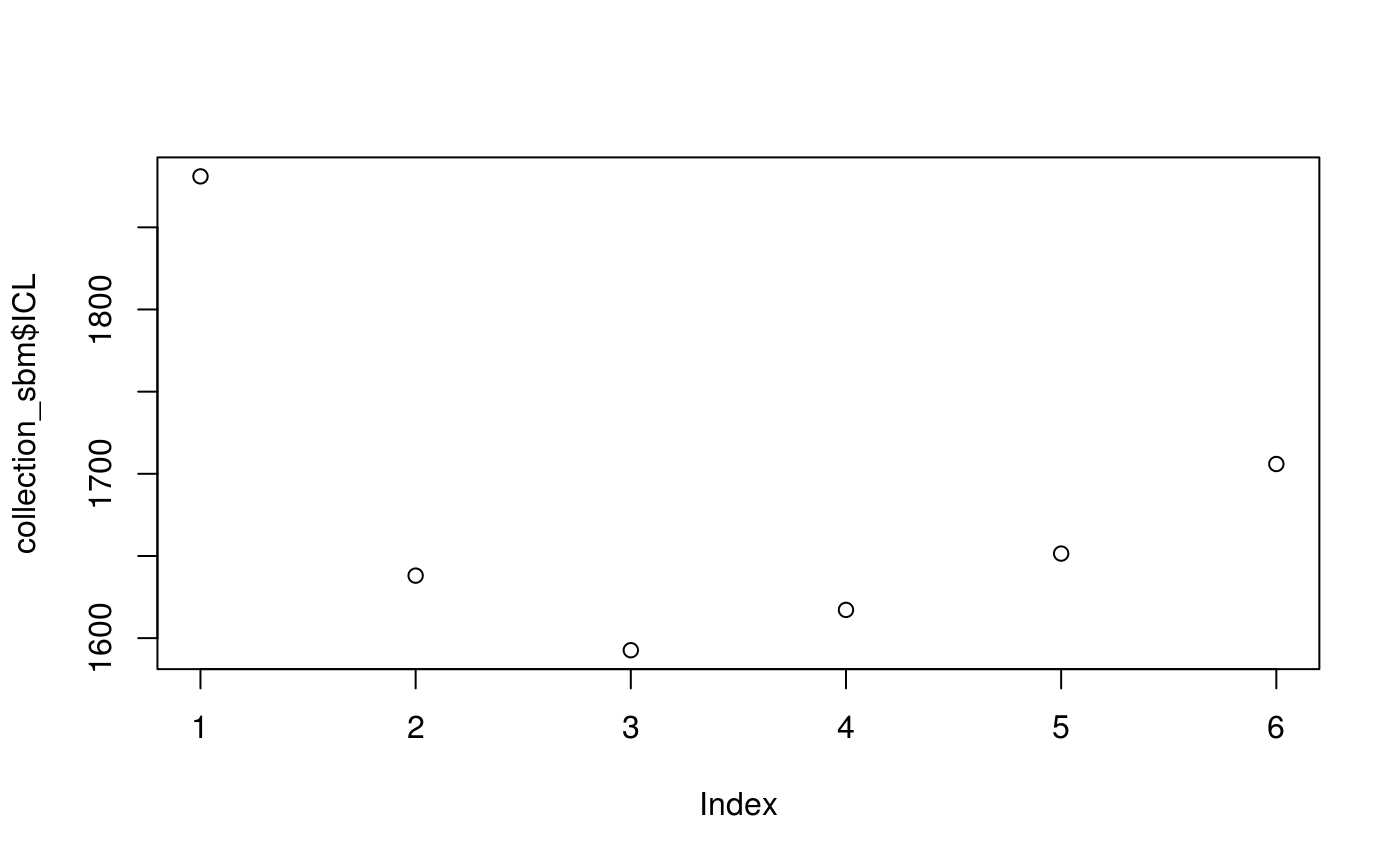
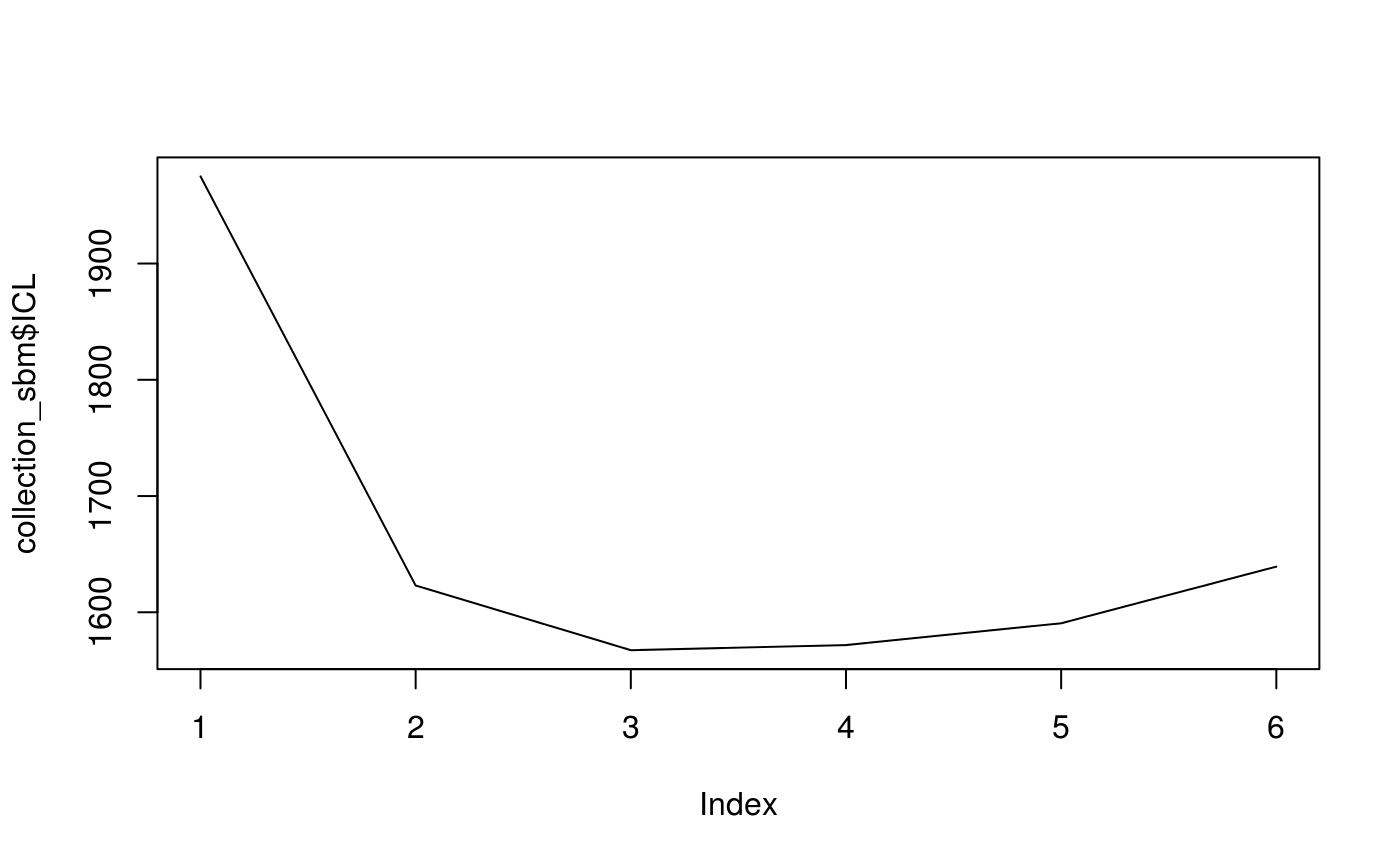
Deploy jchiquet/missSBM to github.com/jchiquet/missSBM.git:gh-pages

diff --git a/articles/introdution-to-misssbm.html b/articles/introdution-to-misssbm.html
@@ -74,7 +74,7 @@
       <h1>Introduction to missSBM</h1>
                         <h4 class="author">missSBM team</h4>
             
-            <h4 class="date">2019-03-22</h4>
+            <h4 class="date">2019-03-24</h4>
       
       <small class="dont-index">Source: <a href="https://github.com/jchiquet/missSBM/blob/master/vignettes/introdution-to-misssbm.Rmd"><code>vignettes/introdution-to-misssbm.Rmd</code></a></small>
       <div class="hidden name"><code>introdution-to-misssbm.Rmd</code></div>
@@ -95,7 +95,8 @@
 <pre><code>## The following object is masked from 'package:base':
 ## 
 ##     union</code></pre>
-<div class="sourceCode" id="cb5"><pre class="sourceCode r"><code class="sourceCode r"><a class="sourceLine" id="cb5-1" data-line-number="1"><span class="kw"><a href="https://www.rdocumentation.org/packages/base/topics/library">library</a></span>(missSBM)</a></code></pre></div>
+<div class="sourceCode" id="cb5"><pre class="sourceCode r"><code class="sourceCode r"><a class="sourceLine" id="cb5-1" data-line-number="1"><span class="kw"><a href="https://www.rdocumentation.org/packages/base/topics/library">library</a></span>(magrittr)</a>
+<a class="sourceLine" id="cb5-2" data-line-number="2"><span class="kw"><a href="https://www.rdocumentation.org/packages/base/topics/library">library</a></span>(missSBM)</a></code></pre></div>
 <pre><code>## 
 ## Attaching package: 'missSBM'</code></pre>
 <pre><code>## The following objects are masked from 'package:stats':
@@ -110,7 +111,7 @@
 <a href="#war-network" class="anchor"></a>War network</h2>
 <p>The <code>war_graphs</code> dataset comes with the <code>missSBM</code> package:</p>
 <div class="sourceCode" id="cb9"><pre class="sourceCode r"><code class="sourceCode r"><a class="sourceLine" id="cb9-1" data-line-number="1"><span class="kw"><a href="https://www.rdocumentation.org/packages/utils/topics/data">data</a></span>(<span class="st">"war_graphs"</span>)</a></code></pre></div>
-<p>This dataset contains a list of two networks where the nodes are countries and an edge in network <code>beligerent</code> means that the two countries have been at least once at war between years 1816 to 2007 while an edge in network <code>alliance</code> means that the two countries have had a formal alliance between years 1816 to 2012. The network <code>beligenrent</code> have less nodes since countries which have not been at war are not considered. These two networs were extracted from <strong><a href="http://www.correlatesofwar.org/" class="uri">http://www.correlatesofwar.org/</a></strong> (version 4.0 for war data see <em>Sarkees, Meredith Reid and Frank Wayman (2010). Resort to War: 1816 - 2007. Washington DC: CQ Press.</em>, version 4.1 for formal alliance see <em>Gibler, Douglas M. 2009. International military alliances, 1648-2008. CQ Press.</em>).</p>
+<p>This dataset contains a list of two networks where the nodes are countries and an edge in network <code>beligerent</code> means that the two countries have been at least once at war between years 1816 to 2007 while an edge in network <code>alliance</code> means that the two countries have had a formal alliance between years 1816 to 2012. The network <code>beligerent</code> have less nodes since countries which have not been at war are not considered. These two networs were extracted from <strong><a href="http://www.correlatesofwar.org/" class="uri">http://www.correlatesofwar.org/</a></strong> (version 4.0 for war data see <em>Sarkees, Meredith Reid and Frank Wayman (2010). Resort to War: 1816 - 2007. Washington DC: CQ Press.</em>, version 4.1 for formal alliance see <em>Gibler, Douglas M. 2009. International military alliances, 1648-2008. CQ Press.</em>).</p>
 <div class="sourceCode" id="cb10"><pre class="sourceCode r"><code class="sourceCode r"><a class="sourceLine" id="cb10-1" data-line-number="1"><span class="kw"><a href="https://www.rdocumentation.org/packages/graphics/topics/plot">plot</a></span>(war_graphs<span class="op">$</span>alliance   , <span class="dt">main =</span> <span class="st">"Alliance"</span>)</a></code></pre></div>
 <p><img src="introdution-to-misssbm_files/figure-html/plot-1.png" width="1920"></p>
 <div class="sourceCode" id="cb11"><pre class="sourceCode r"><code class="sourceCode r"><a class="sourceLine" id="cb11-1" data-line-number="1"><span class="kw"><a href="https://www.rdocumentation.org/packages/graphics/topics/plot">plot</a></span>(war_graphs<span class="op">$</span>beligerent , <span class="dt">main =</span> <span class="st">"Beligerent"</span>)</a></code></pre></div>
@@ -125,32 +126,7 @@
 <p><img src="introdution-to-misssbm_files/figure-html/sampling-1.png" width="700"></p>
 <div class="sourceCode" id="cb13"><pre class="sourceCode r"><code class="sourceCode r"><a class="sourceLine" id="cb13-1" data-line-number="1">vBlocks &lt;-<span class="st"> </span><span class="dv">1</span><span class="op">:</span><span class="dv">6</span></a>
 <a class="sourceLine" id="cb13-2" data-line-number="2">collection_sbm &lt;-<span class="st"> </span>sampledNet_war<span class="op">$</span>adjMatrix <span class="op">%&gt;%</span><span class="st"> </span></a>
-<a class="sourceLine" id="cb13-3" data-line-number="3"><span class="st">  </span>missSBM<span class="op">::</span><span class="kw"><a href="https://www.rdocumentation.org/packages/missSBM/topics/estimate">estimate</a></span>(<span class="dt">vBlocks =</span> vBlocks, <span class="dt">sampling =</span> <span class="st">"node"</span>, <span class="dt">clusterInit =</span> <span class="st">"spectral"</span>, <span class="dt">cores =</span> <span class="dv">2</span>)</a></code></pre></div>
-<pre><code>## 
-## 
-##  Adjusting Variational EM for Stochastic Block Model
-## 
-##  Imputation assumes a 'node' network-sampling process</code></pre>
-<div class="sourceCode" id="cb15"><pre class="sourceCode r"><code class="sourceCode r"><a class="sourceLine" id="cb15-1" data-line-number="1"><span class="kw"><a href="https://www.rdocumentation.org/packages/graphics/topics/plot">plot</a></span>(collection_sbm<span class="op">$</span>ICL)</a></code></pre></div>
-<p><img src="introdution-to-misssbm_files/figure-html/plotICL-1.png" width="700"></p>
-<div class="sourceCode" id="cb16"><pre class="sourceCode r"><code class="sourceCode r"><a class="sourceLine" id="cb16-1" data-line-number="1"><span class="kw"><a href="../reference/smooth.html">smooth</a></span>(collection_sbm, <span class="st">"both"</span>, <span class="dt">iterates =</span> <span class="dv">2</span>, <span class="dt">cores =</span> <span class="dv">2</span>)</a></code></pre></div>
-<pre><code>## 
-##  Smoothing ICL
-##    Going forward +++++
-                                                                                                    
-   Going backward +++++   Going forward +++++
-                                                                                                    
-   Going backward +++++</code></pre>
-<div class="sourceCode" id="cb18"><pre class="sourceCode r"><code class="sourceCode r"><a class="sourceLine" id="cb18-1" data-line-number="1"><span class="kw"><a href="https://www.rdocumentation.org/packages/graphics/topics/plot">plot</a></span>(collection_sbm<span class="op">$</span>ICL)</a></code></pre></div>
-<p><img src="introdution-to-misssbm_files/figure-html/smoothed-1.png" width="700"></p>
-<div class="sourceCode" id="cb19"><pre class="sourceCode r"><code class="sourceCode r"><a class="sourceLine" id="cb19-1" data-line-number="1"><span class="kw"><a href="https://www.rdocumentation.org/packages/base/topics/table">table</a></span>(collection_sbm<span class="op">$</span>bestModel<span class="op">$</span>fittedSBM<span class="op">$</span>memberships)</a></code></pre></div>
-<pre><code>## 
-##  1  2  3 
-## 72 10 10</code></pre>
-<p>We compare with clusterings obtained with the fully observed network.</p>
-<div class="sourceCode" id="cb21"><pre class="sourceCode r"><code class="sourceCode r"><a class="sourceLine" id="cb21-1" data-line-number="1">collection_sbm_full &lt;-<span class="st"> </span>war_graphs<span class="op">$</span>beligerent <span class="op">%&gt;%</span><span class="st"> </span></a>
-<a class="sourceLine" id="cb21-2" data-line-number="2"><span class="st">  </span><span class="kw"><a href="https://www.rdocumentation.org/packages/igraph/topics/as_adjacency_matrix">as_adj</a></span>(<span class="dt">sparse =</span> <span class="ot">FALSE</span>) <span class="op">%&gt;%</span><span class="st"> </span></a>
-<a class="sourceLine" id="cb21-3" data-line-number="3"><span class="st">  </span>missSBM<span class="op">::</span><span class="kw"><a href="https://www.rdocumentation.org/packages/missSBM/topics/estimate">estimate</a></span>(<span class="dt">vBlocks =</span> vBlocks, <span class="st">"node"</span>, <span class="dt">clusterInit =</span> <span class="st">"hierarchical"</span>, <span class="dt">cores =</span> <span class="dv">1</span>, <span class="dt">trace =</span> <span class="ot">TRUE</span>)</a></code></pre></div>
+<a class="sourceLine" id="cb13-3" data-line-number="3"><span class="st">  </span>missSBM<span class="op">::</span><span class="kw"><a href="https://www.rdocumentation.org/packages/missSBM/topics/estimate">estimate</a></span>(<span class="dt">vBlocks =</span> vBlocks, <span class="dt">sampling =</span> <span class="st">"node"</span>, <span class="dt">clusterInit =</span> <span class="st">"spectral"</span>)</a></code></pre></div>
 <pre><code>## 
 ## 
 ##  Adjusting Variational EM for Stochastic Block Model
@@ -169,16 +145,99 @@
  Performing VEM inference for model with 4 blocks.
  Performing VEM inference for model with 5 blocks.
  Performing VEM inference for model with 6 blocks.</code></pre>
+<div class="sourceCode" id="cb15"><pre class="sourceCode r"><code class="sourceCode r"><a class="sourceLine" id="cb15-1" data-line-number="1"><span class="kw"><a href="https://www.rdocumentation.org/packages/graphics/topics/plot">plot</a></span>(collection_sbm<span class="op">$</span>ICL, <span class="dt">type =</span> <span class="st">"l"</span>)</a></code></pre></div>
+<p><img src="introdution-to-misssbm_files/figure-html/inferencew-1.png" width="700"></p>
+<div class="sourceCode" id="cb16"><pre class="sourceCode r"><code class="sourceCode r"><a class="sourceLine" id="cb16-1" data-line-number="1"><span class="kw"><a href="../reference/smooth.html">smooth</a></span>(collection_sbm, <span class="st">"both"</span>, <span class="dt">iterates =</span> <span class="dv">2</span>)</a></code></pre></div>
+<pre><code>## 
+##  Smoothing ICL
+##    Going forward +++++
+                                                                                                    
+   Going backward +++++
+                                                                                                    
+   Going forward +++++
+                                                                                                    
+   Going backward +++++
+                                                                                                    </code></pre>
+<div class="sourceCode" id="cb18"><pre class="sourceCode r"><code class="sourceCode r"><a class="sourceLine" id="cb18-1" data-line-number="1"><span class="kw"><a href="https://www.rdocumentation.org/packages/graphics/topics/plot">plot</a></span>(collection_sbm<span class="op">$</span>ICL, <span class="dt">type =</span> <span class="st">"l"</span>)</a></code></pre></div>
+<p><img src="introdution-to-misssbm_files/figure-html/smoothed-1.png" width="700"></p>
+<div class="sourceCode" id="cb19"><pre class="sourceCode r"><code class="sourceCode r"><a class="sourceLine" id="cb19-1" data-line-number="1"><span class="kw"><a href="https://www.rdocumentation.org/packages/base/topics/table">table</a></span>(collection_sbm<span class="op">$</span>bestModel<span class="op">$</span>fittedSBM<span class="op">$</span>memberships)</a></code></pre></div>
+<pre><code>## 
+##  1  2  3 
+## 49 30 13</code></pre>
+<p>We compare with clusterings obtained with the fully observed network.</p>
+<div class="sourceCode" id="cb21"><pre class="sourceCode r"><code class="sourceCode r"><a class="sourceLine" id="cb21-1" data-line-number="1">collection_sbm_full &lt;-<span class="st"> </span>war_graphs<span class="op">$</span>beligerent <span class="op">%&gt;%</span><span class="st"> </span></a>
+<a class="sourceLine" id="cb21-2" data-line-number="2"><span class="st">  </span><span class="kw"><a href="https://www.rdocumentation.org/packages/igraph/topics/as_adjacency_matrix">as_adj</a></span>(<span class="dt">sparse =</span> <span class="ot">FALSE</span>) <span class="op">%&gt;%</span><span class="st"> </span></a>
+<a class="sourceLine" id="cb21-3" data-line-number="3"><span class="st">  </span>missSBM<span class="op">::</span><span class="kw"><a href="https://www.rdocumentation.org/packages/missSBM/topics/estimate">estimate</a></span>(<span class="dt">vBlocks =</span> vBlocks, <span class="st">"node"</span>, <span class="dt">clusterInit =</span> <span class="st">"hierarchical"</span>, <span class="dt">cores =</span> <span class="dv">2</span>, <span class="dt">trace =</span> <span class="ot">TRUE</span>)</a></code></pre></div>
+<pre><code>## 
+## 
+##  Adjusting Variational EM for Stochastic Block Model
+## 
+##  Imputation assumes a 'node' network-sampling process</code></pre>
 <div class="sourceCode" id="cb23"><pre class="sourceCode r"><code class="sourceCode r"><a class="sourceLine" id="cb23-1" data-line-number="1"><span class="kw"><a href="../reference/smooth.html">smooth</a></span>(collection_sbm_full, <span class="st">"both"</span>, <span class="dt">iterates =</span> <span class="dv">2</span>)</a></code></pre></div>
 <pre><code>## 
 ##  Smoothing ICL
 ##    Going forward +++++
                                                                                                     
-   Going backward +++++   Going forward +++++
+   Going backward +++++
                                                                                                     
-   Going backward +++++</code></pre>
-<div class="sourceCode" id="cb25"><pre class="sourceCode r"><code class="sourceCode r"><a class="sourceLine" id="cb25-1" data-line-number="1"><span class="kw"><a href="https://www.rdocumentation.org/packages/graphics/topics/plot">plot</a></span>(collection_sbm_full<span class="op">$</span>ICL)</a></code></pre></div>
+   Going forward +++++
+                                                                                                    
+   Going backward +++++
+                                                                                                    </code></pre>
+<div class="sourceCode" id="cb25"><pre class="sourceCode r"><code class="sourceCode r"><a class="sourceLine" id="cb25-1" data-line-number="1"><span class="kw"><a href="https://www.rdocumentation.org/packages/graphics/topics/plot">plot</a></span>(collection_sbm_full<span class="op">$</span>ICL, <span class="dt">type =</span> <span class="st">"l"</span>)</a></code></pre></div>
 <p><img src="introdution-to-misssbm_files/figure-html/inferencewfull-1.png" width="700"></p>
+<div class="sourceCode" id="cb26"><pre class="sourceCode r"><code class="sourceCode r"><a class="sourceLine" id="cb26-1" data-line-number="1">test =<span class="kw"><a href="https://www.rdocumentation.org/packages/base/topics/matrix">as.matrix</a></span>(<span class="kw"><a href="https://www.rdocumentation.org/packages/igraph/topics/as_adjacency_matrix">get.adjacency</a></span>(war_graphs<span class="op">$</span>beligerent))</a>
+<a class="sourceLine" id="cb26-2" data-line-number="2"><span class="kw"><a href="https://www.rdocumentation.org/packages/base/topics/isSymmetric">isSymmetric</a></span>(test)</a></code></pre></div>
+<pre><code>## [1] TRUE</code></pre>
+<div class="sourceCode" id="cb28"><pre class="sourceCode r"><code class="sourceCode r"><a class="sourceLine" id="cb28-1" data-line-number="1">test[<span class="dv">1</span>,<span class="dv">2</span>] =<span class="st"> </span><span class="dv">1</span></a>
+<a class="sourceLine" id="cb28-2" data-line-number="2"><span class="kw"><a href="https://www.rdocumentation.org/packages/base/topics/isSymmetric">isSymmetric</a></span>(test)</a></code></pre></div>
+<pre><code>## [1] FALSE</code></pre>
+<div class="sourceCode" id="cb30"><pre class="sourceCode r"><code class="sourceCode r"><a class="sourceLine" id="cb30-1" data-line-number="1">collection_sbm_full2 &lt;-<span class="st"> </span>test <span class="op">%&gt;%</span><span class="st"> </span></a>
+<a class="sourceLine" id="cb30-2" data-line-number="2"><span class="st">  </span>missSBM<span class="op">::</span><span class="kw"><a href="https://www.rdocumentation.org/packages/missSBM/topics/estimate">estimate</a></span>(<span class="dt">vBlocks =</span> vBlocks, <span class="st">"node"</span>, <span class="dt">clusterInit =</span> <span class="st">"spectral"</span>, <span class="dt">cores =</span> <span class="dv">2</span>, <span class="dt">trace =</span> <span class="ot">TRUE</span>)</a></code></pre></div>
+<pre><code>## 
+## 
+##  Adjusting Variational EM for Stochastic Block Model
+## 
+##  Imputation assumes a 'node' network-sampling process</code></pre>
+<div class="sourceCode" id="cb32"><pre class="sourceCode r"><code class="sourceCode r"><a class="sourceLine" id="cb32-1" data-line-number="1"><span class="kw"><a href="../reference/smooth.html">smooth</a></span>(collection_sbm_full2, <span class="st">"both"</span>, <span class="dt">iterates =</span> <span class="dv">4</span>)</a></code></pre></div>
+<pre><code>## 
+##  Smoothing ICL
+##    Going forward +++++
+                                                                                                    
+   Going backward +++++
+                                                                                                    
+   Going forward +++++
+                                                                                                    
+   Going backward +++++
+                                                                                                    
+   Going forward +++++
+                                                                                                    
+   Going backward +++++
+                                                                                                    
+   Going forward +++++
+                                                                                                    
+   Going backward +++++
+                                                                                                    </code></pre>
+<div class="sourceCode" id="cb34"><pre class="sourceCode r"><code class="sourceCode r"><a class="sourceLine" id="cb34-1" data-line-number="1"><span class="kw"><a href="https://www.rdocumentation.org/packages/graphics/topics/plot">plot</a></span>(collection_sbm_full2<span class="op">$</span>ICL)</a></code></pre></div>
+<p><img src="introdution-to-misssbm_files/figure-html/inferencewfull-2.png" width="700"></p>
+<div class="sourceCode" id="cb35"><pre class="sourceCode r"><code class="sourceCode r"><a class="sourceLine" id="cb35-1" data-line-number="1"><span class="kw"><a href="https://www.rdocumentation.org/packages/base/topics/table">table</a></span>(</a>
+<a class="sourceLine" id="cb35-2" data-line-number="2">  collection_sbm<span class="op">$</span>bestModel<span class="op">$</span>fittedSBM<span class="op">$</span>memberships,</a>
+<a class="sourceLine" id="cb35-3" data-line-number="3">  collection_sbm_full<span class="op">$</span>bestModel<span class="op">$</span>fittedSBM<span class="op">$</span>memberships</a>
+<a class="sourceLine" id="cb35-4" data-line-number="4">  )</a></code></pre></div>
+<pre><code>##    
+##      1  2  3  4
+##   1  3  0 46  0
+##   2 26  2  2  0
+##   3  0  8  0  5</code></pre>
+<!-- ```{r blockmodelscomparison} -->
+<!-- library(blockmodels) -->
+<!-- modsym <- BM_bernoulli("SBM_sym",as.matrix(get.adjacency(war_graphs$beligerent)),verbosity=0,plotting="") -->
+<!-- modsym$estimate() -->
+<!-- plot(modsym$ICL) -->
+<!-- mod <- BM_bernoulli("SBM",as.matrix(get.adjacency(war_graphs$beligerent)),verbosity=0,plotting="") -->
+<!-- mod$estimate() -->
+<!-- plot(mod$ICL) -->
+<!-- ``` -->
 </div>
 </div>
   </div>

diff --git a/reference/smooth.html b/reference/smooth.html
@@ -120,7 +120,7 @@ a "smoothing" of the ICL, that should be close to concave.</p>
 
     <pre class="usage"><span class='fu'>smooth</span>(<span class='no'>Robject</span>, <span class='kw'>type</span> <span class='kw'>=</span> <span class='fu'><a href='https://www.rdocumentation.org/packages/base/topics/c'>c</a></span>(<span class='st'>"forward"</span>, <span class='st'>"backward"</span>, <span class='st'>"both"</span>),
   <span class='kw'>split</span> <span class='kw'>=</span> <span class='fu'><a href='https://www.rdocumentation.org/packages/base/topics/c'>c</a></span>(<span class='st'>"hierarchical"</span>, <span class='st'>"spectral"</span>, <span class='st'>"kmeans"</span>),
-  <span class='kw'>control_VEM</span> <span class='kw'>=</span> <span class='fu'><a href='https://www.rdocumentation.org/packages/base/topics/list'>list</a></span>(), <span class='kw'>cores</span> <span class='kw'>=</span> <span class='fl'>2</span>, <span class='kw'>iterates</span> <span class='kw'>=</span> <span class='fl'>1</span>, <span class='kw'>trace</span> <span class='kw'>=</span> <span class='fl'>TRUE</span>)</pre>
+  <span class='kw'>control_VEM</span> <span class='kw'>=</span> <span class='fu'><a href='https://www.rdocumentation.org/packages/base/topics/list'>list</a></span>(), <span class='kw'>cores</span> <span class='kw'>=</span> <span class='fl'>1</span>, <span class='kw'>iterates</span> <span class='kw'>=</span> <span class='fl'>1</span>, <span class='kw'>trace</span> <span class='kw'>=</span> <span class='fl'>TRUE</span>)</pre>
     
     <h2 class="hasAnchor" id="arguments"><a class="anchor" href="#arguments"></a>Arguments</h2>
     <table class="ref-arguments">
@@ -143,7 +143,7 @@ a "smoothing" of the ICL, that should be close to concave.</p>
     </tr>
     <tr>
       <th>cores</th>
-      <td><p>integer, the number of cores to use when multiply model are fitted. Default is 2.</p></td>
+      <td><p>integer, the number of cores to use when multiply model are fitted. Default is 1.</p></td>
     </tr>
     <tr>
       <th>iterates</th>
